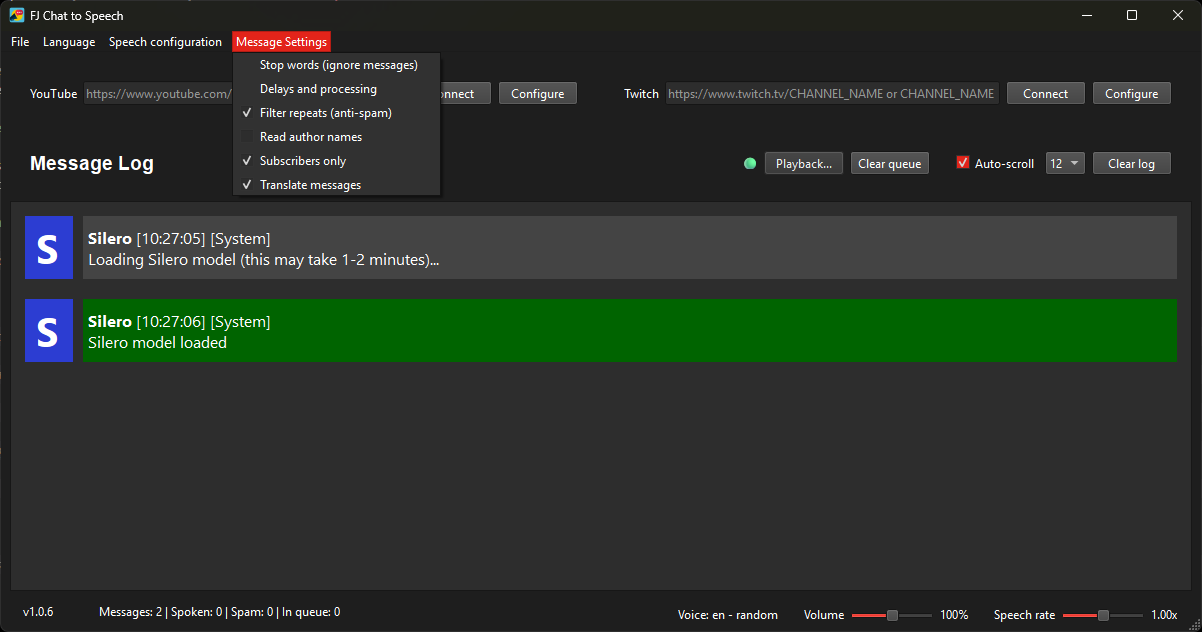
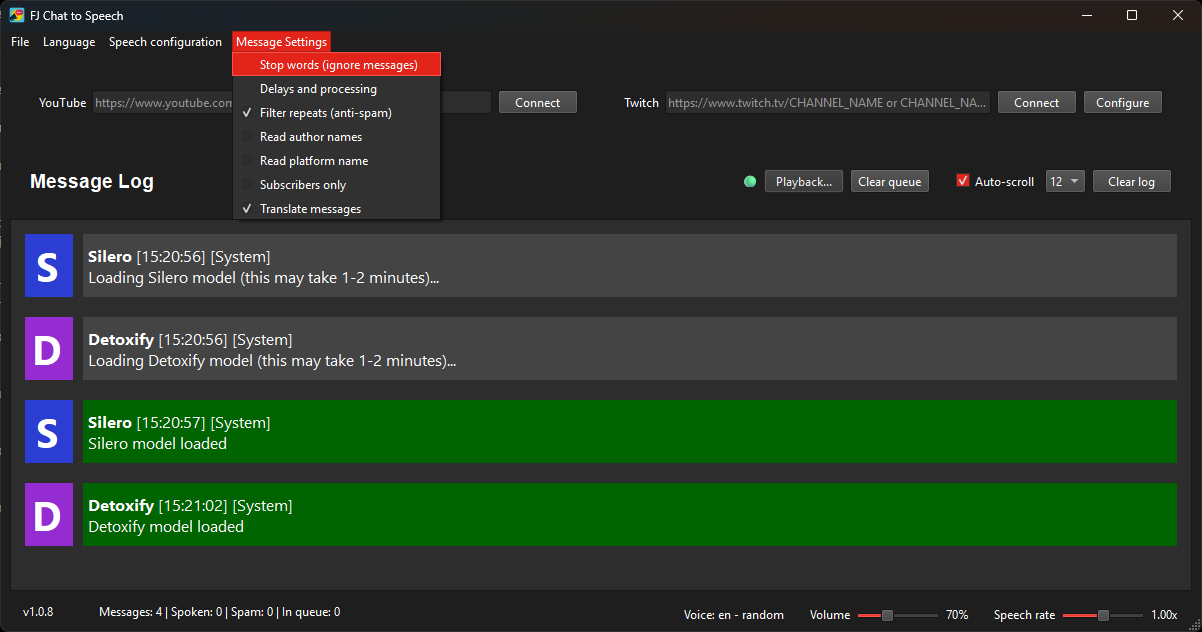
Update readme

diff --git a/readme.md b/readme.md
@@ -2,35 +2,42 @@
 
 <img alt="FJ Chat to Speech" src="./docs/app_0.png" width="700">
 
-This is a program for real-time chat voiceover using the Silero model.
+FJ Chat to Speech is an open-source desktop application that converts live chat messages from YouTube and Twitch streams into real-time speech.
 
-It uses the Google API to retrieve messages from YouTube chat and converts them to speech. The key acquisition method is described in the instructions.
-The first launch may take 1-2 minutes, as the program downloads the model and caches it for subsequent launches.
+## <a href="https://github.com/facejungle/fj_chat_to_speech/releases/latest/" target="_blank">Download</a>
 
-- The program is completely free.
-- The program interface is Russian and English, and it also supports voiceover in Russian and English.
+The application combines:
 
-Implemented features:
+- YouTube and Twitch chat integration
+- `Silero` text-to-speech models (local inference)
+- `Detoxify` toxicity filtering (local inference)
+- Custom spam filtering tools
 
-- Voice selection
-- Spam filter and stop words list
-- Adjustable voiceover volume
-- Adjustable voiceover speed
-- Adjustable number of messages in the queue
-- Speak numbers in messages
-- Translation of chat messages into speech language
+## Key Features
 
-## Text-to-speech for YouTube streams
+- Voice selection (English and Russian)
+- Adjustable speech volume
+- Adjustable speech speed
+- Pronunciation of numbers
+- Optional translation of messages before speech
+- Stop-word list editor
+- Toxicity filtering (Detoxify)
+- English and Russian interface
+- Free and open-source
 
-- To convert text from a chat to speech , simply paste the link to the active stream
+### YouTube Streams
 
-## Text-to-speech for Twitch streams
+To connect to a broadcast, simply paste the link to the active live broadcast and click "Connect"
 
-- Generating [Twitch CLIENT ID](https://github.com/facejungle/fj_chat_to_speech/wiki/Twitch-CLIENT-ID)
+### Twitch Streams
+
+For Twitch, simply enter the channel name (or URL) of an active stream. FJ Chat to Speech will connect to Twitch’s chat service using your Client ID and start reading incoming chat messages. (Beforehand, you must register a Twitch app and copy the Client ID from the Twitch Developer Console into the program.) The interface will handle reconnects if the stream goes offline and comes back.
+
+- <a href="https://github.com/facejungle/fj_chat_to_speech/wiki/Twitch-CLIENT-ID" target="_blank">How to create Client ID</a>
 
 ## Launch from source code
 
-```
+```bash
 git clone https://github.com/facejungle/fj_chat_to_speech.git
 cd fj_chat_to_speech
 
@@ -42,8 +49,13 @@ python main.py
 
 ## Build
 
-```
+```bash
 python build.py
+cd dist
+ls
 ```
 
-## Thanks for <a href="https://github.com/snakers4/silero-models/" target="_blank">Silero</a> :)
+## Thanks for <a href="https://github.com/snakers4/silero-models/" target="_blank">Silero</a> and <a href="https://github.com/unitaryai/detoxify" target="_blank">Detoxify</a>
+
+- **Silero Models**: We use Silero’s open-source TTS models, known for natural-sounding voices and fast CPU performance
+- **Detoxify**: Toxicity filtering is powered by the Detoxify library, which provides pretrained models to flag and filter toxic comments
